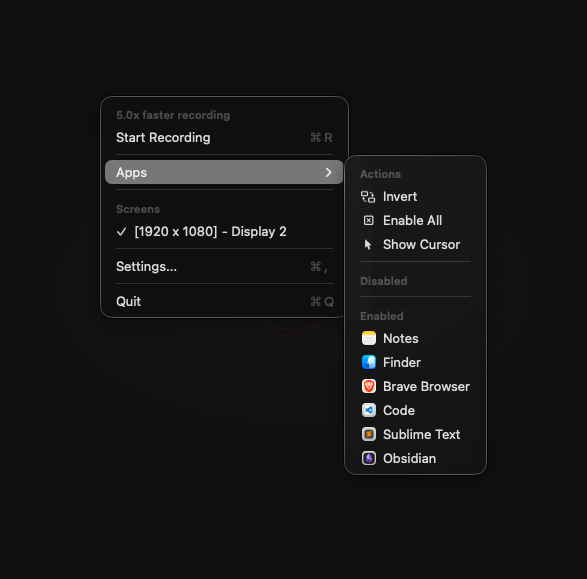
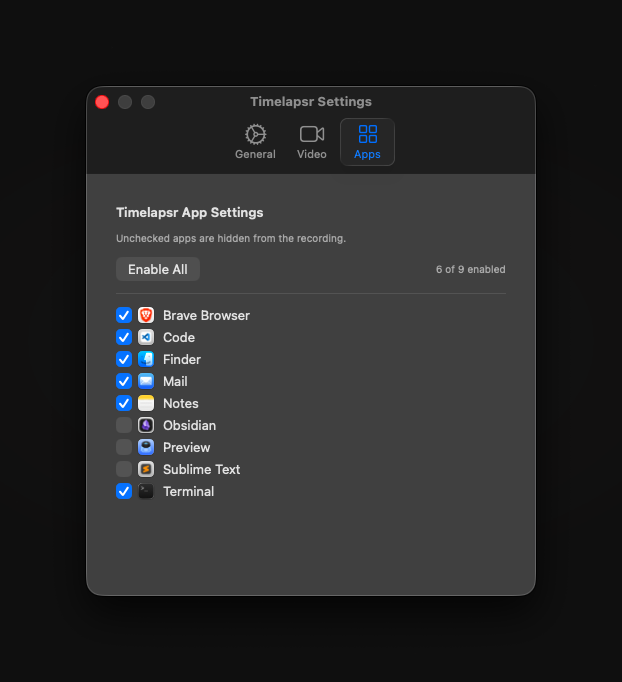
Update screenshots to current UI
settings.png now shows the Video tab with pause-when-idle, framing and
resolution, none of which existed when the old shot was taken.

app-filtering.png replaces the menu-bar submenu shot, which was stale in two
ways: app selection has moved to Settings, and it still pictured the Invert
button removed in 6e9fff3.

Also pairs the two settings windows side by side (same size, so they line
up) and writes descriptive alt text on all three, which serves both screen
readers and image search.

diff --git a/README.md b/README.md
@@ -21,13 +21,13 @@
 ---
 
 <p align="center">
-  <img src="docs/menu-bar.png" alt="Timelapsr menu bar" width="330">
-  &nbsp;&nbsp;
-  <img src="docs/app-filtering.png" alt="Per-app filtering" width="420">
+  <img src="docs/menu-bar.png" alt="Timelapsr menu bar app for macOS — start and stop screen time-lapse recording" width="300">
 </p>
 
 <p align="center">
-  <img src="docs/settings.png" alt="Timelapsr settings" width="470">
+  <img src="docs/settings.png" alt="Timelapsr video settings — recording speed, pause when idle, 9:16 framing and resolution cap" width="380">
+  &nbsp;
+  <img src="docs/app-filtering.png" alt="Timelapsr app settings — exclude individual applications from the screen recording" width="380">
 </p>
 
 ## What it does
